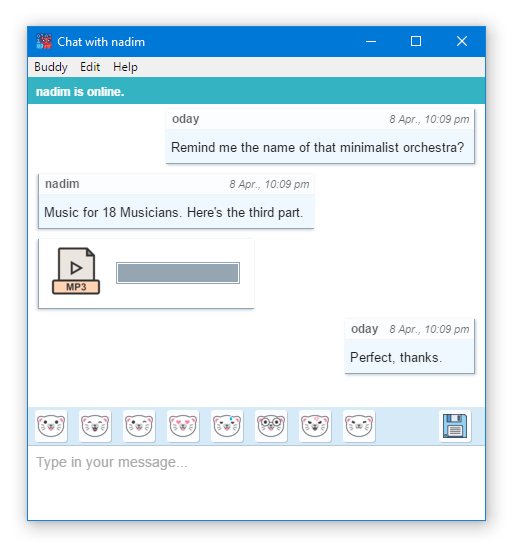
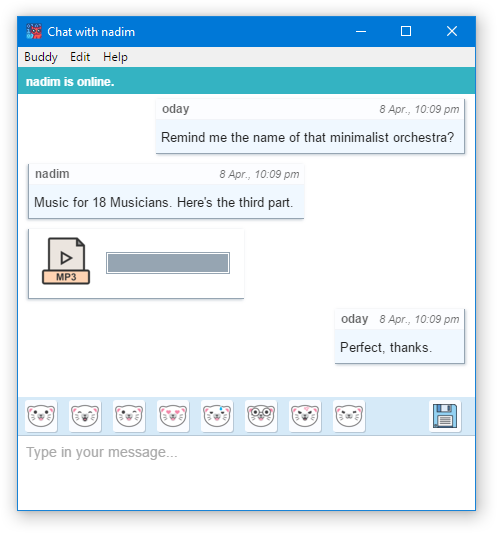
Website: update front page image.

Changed region(s): [[0.0302, 0.0, 0.9658, 0.9906], [0.4527, 0.4803, 0.4829, 0.5103]]

diff --git a/website/index.html b/website/index.html
@@ -54,7 +54,7 @@
 	
 	<div id="main">
 		<div class="mainLeft">
-			<img src="img/chatWindow.png" alt="Chat with nadim" title="Cryptocat 3.0.14 on Microsoft Windows 10." draggable="false" />
+			<img src="img/3.0.25.png" alt="Chat with nadim" title="Cryptocat 3.0.14 on Microsoft Windows 10." draggable="false" />
 		</div>
 		<div class="mainRight">
 			<h1>Chat with your friends, privately.</h1>
